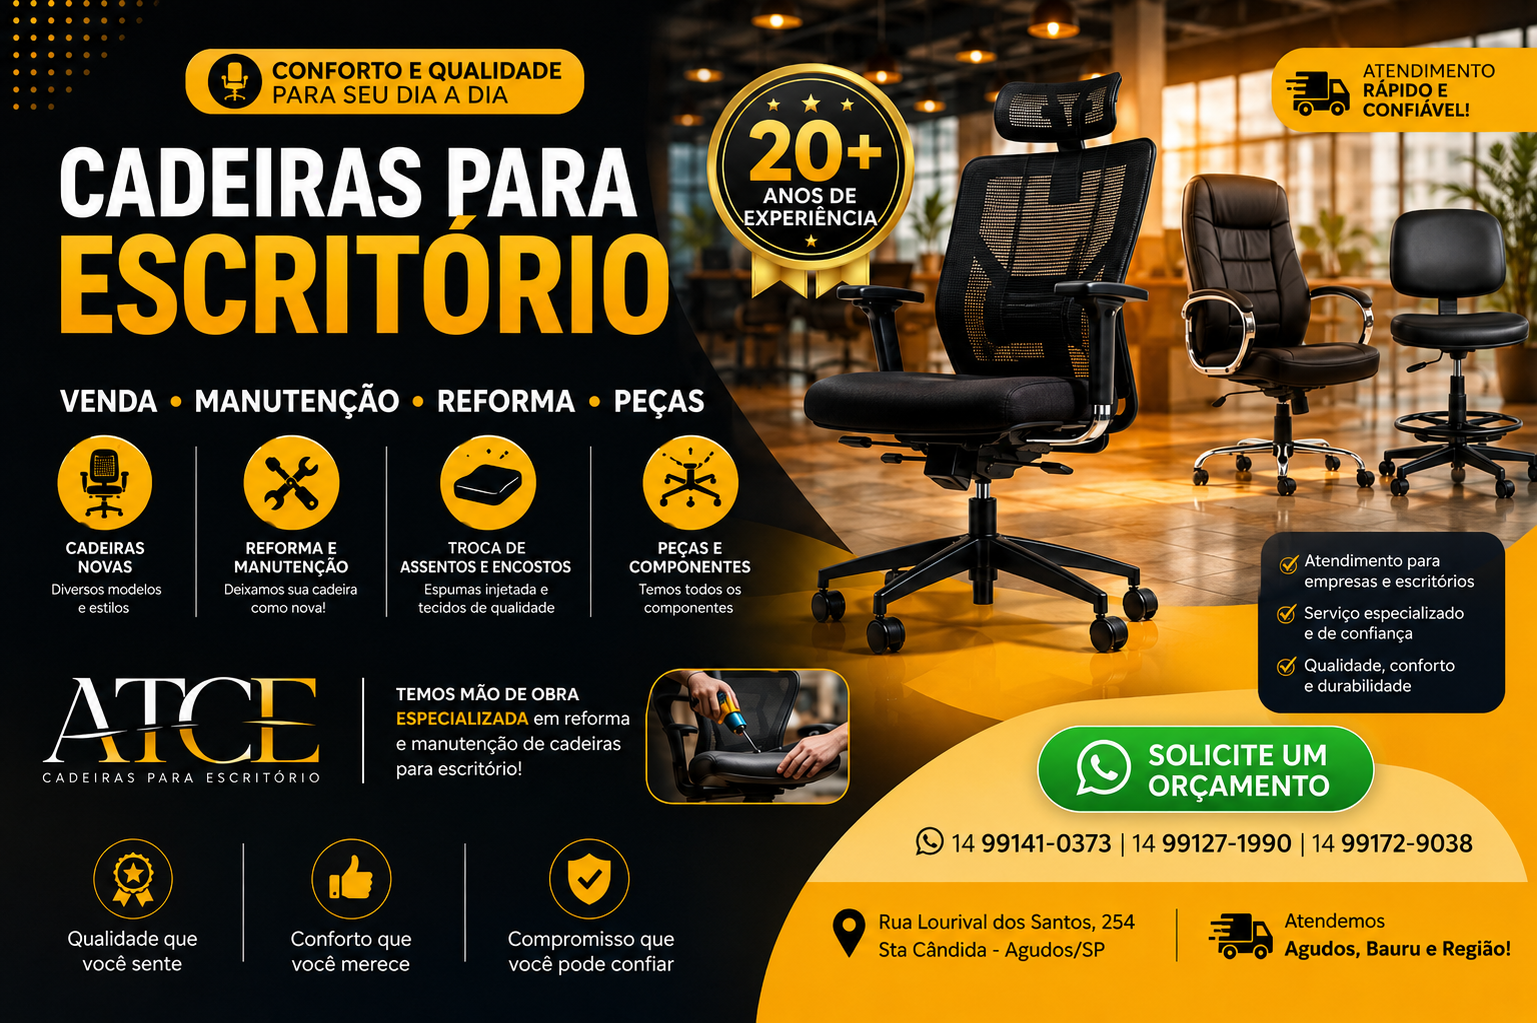
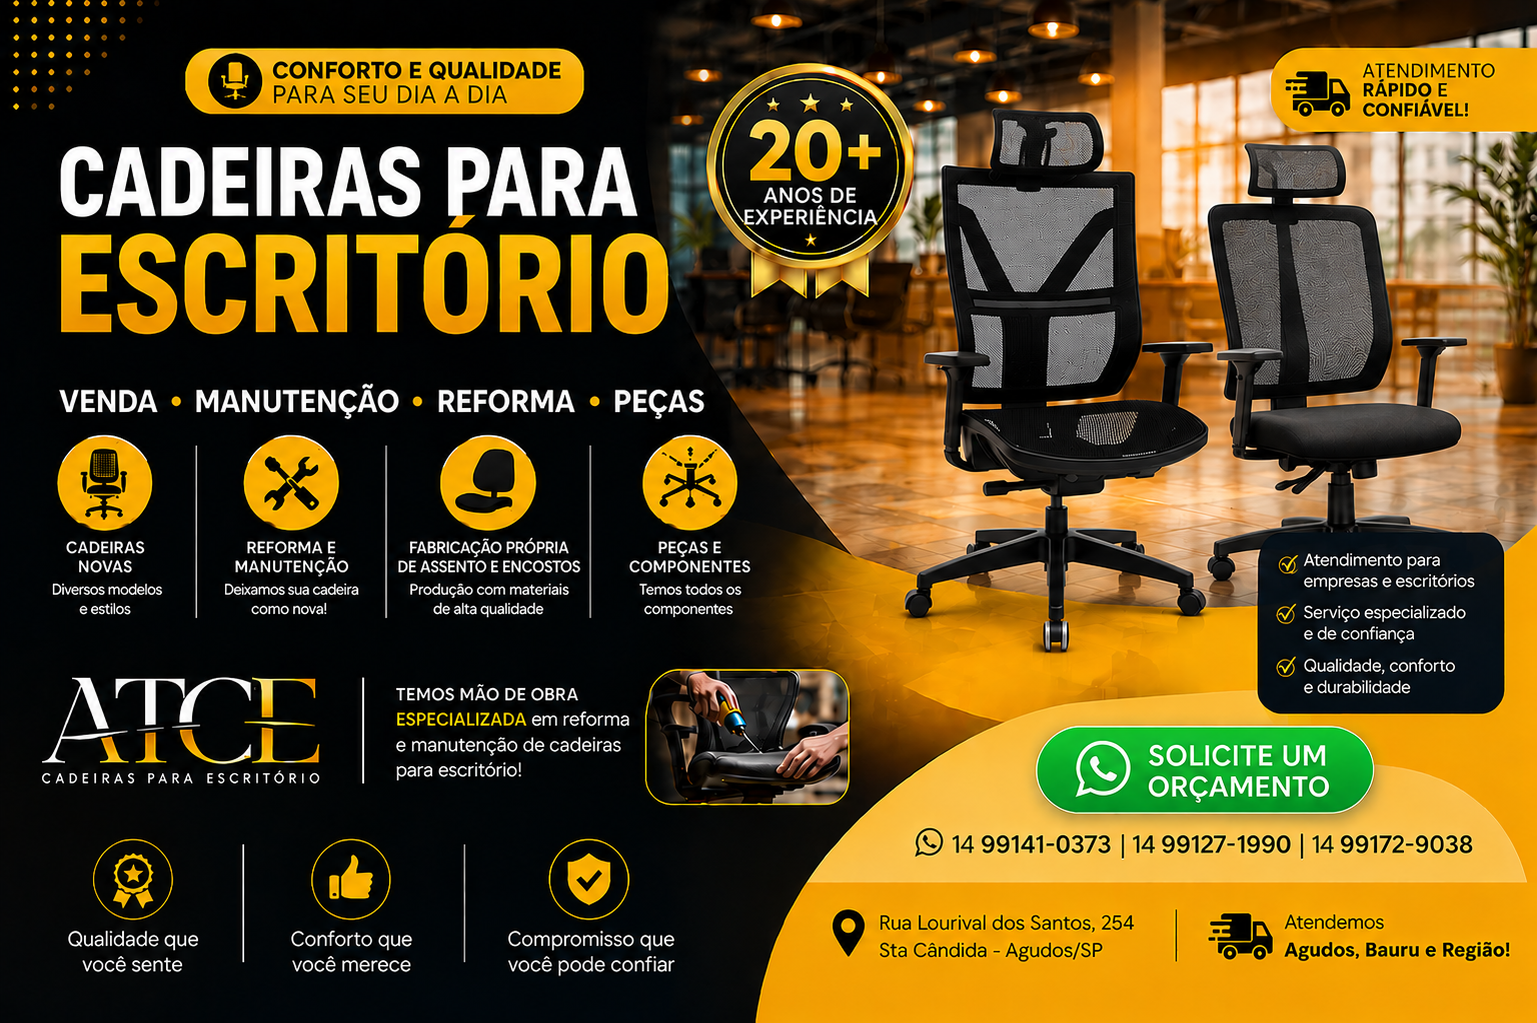
Atualiza flyer e index.html do catálogo ATCE

diff --git a/index.html b/index.html
@@ -170,6 +170,193 @@
     .phones-row a svg { width: 17px; height: 17px; color: var(--gold); }
 
     /* ══════════════════════════════════════
+       FABRICAÇÃO PRÓPRIA
+    ══════════════════════════════════════ */
+    .factory {
+      position: relative;
+      background:
+        radial-gradient(900px 400px at 85% -10%, rgba(245,168,0,.10), transparent 60%),
+        radial-gradient(700px 380px at 0% 110%, rgba(245,168,0,.07), transparent 55%),
+        var(--black);
+      padding: 90px 48px;
+      border-top: 1px solid #222;
+      overflow: hidden;
+    }
+
+    .factory-inner {
+      max-width: 1150px;
+      margin: 0 auto;
+      display: grid;
+      grid-template-columns: 1.05fr 1fr;
+      gap: 56px;
+      align-items: center;
+    }
+
+    .factory-badge {
+      display: inline-flex;
+      align-items: center;
+      gap: 8px;
+      background: rgba(245,168,0,.12);
+      border: 1px solid rgba(245,168,0,.35);
+      color: var(--gold);
+      font-size: .68rem;
+      font-weight: 800;
+      letter-spacing: .15em;
+      text-transform: uppercase;
+      padding: 7px 16px;
+      border-radius: 100px;
+      margin-bottom: 22px;
+    }
+
+    .factory-badge svg { width: 15px; height: 15px; }
+
+    .factory h2 {
+      font-size: clamp(1.9rem, 3.6vw, 3rem);
+      font-weight: 900;
+      text-transform: uppercase;
+      line-height: 1.08;
+      margin-bottom: 20px;
+    }
+
+    .factory h2 em { font-style: normal; color: var(--gold); }
+
+    .factory-lead {
+      color: #b0b0b0;
+      font-size: 1rem;
+      line-height: 1.7;
+      max-width: 520px;
+      margin-bottom: 30px;
+    }
+
+    .factory-features {
+      display: flex;
+      flex-direction: column;
+      gap: 16px;
+      margin-bottom: 34px;
+    }
+
+    .ff-item {
+      display: flex;
+      align-items: flex-start;
+      gap: 14px;
+    }
+
+    .ff-ic {
+      flex-shrink: 0;
+      width: 42px;
+      height: 42px;
+      border-radius: 11px;
+      background: rgba(245,168,0,.12);
+      border: 1px solid rgba(245,168,0,.25);
+      display: flex;
+      align-items: center;
+      justify-content: center;
+    }
+
+    .ff-ic svg { width: 21px; height: 21px; color: var(--gold); }
+
+    .ff-text h4 {
+      font-size: .92rem;
+      font-weight: 800;
+      text-transform: uppercase;
+      letter-spacing: .03em;
+      margin-bottom: 3px;
+    }
+
+    .ff-text p { font-size: .82rem; color: #8c8c8c; line-height: 1.55; }
+
+    .factory-cta {
+      display: inline-flex;
+      align-items: center;
+      gap: 10px;
+      background: var(--gold);
+      color: var(--black);
+      font-family: 'Montserrat', sans-serif;
+      font-size: .9rem;
+      font-weight: 800;
+      text-transform: uppercase;
+      letter-spacing: .05em;
+      padding: 15px 30px;
+      border-radius: 8px;
+      text-decoration: none;
+      transition: transform .2s, box-shadow .2s;
+    }
+
+    .factory-cta:hover {
+      transform: translateY(-2px);
+      box-shadow: 0 8px 26px rgba(245,168,0,.35);
+    }
+
+    .factory-cta svg { width: 19px; height: 19px; }
+
+    /* Vitrine visual à direita */
+    .factory-visual {
+      position: relative;
+      display: grid;
+      grid-template-columns: 1fr 1fr;
+      gap: 18px;
+    }
+
+    .fv-card {
+      position: relative;
+      border-radius: 18px;
+      padding: 30px 24px;
+      background: linear-gradient(160deg, #1c1c1c 0%, #141414 100%);
+      border: 1px solid #262626;
+      overflow: hidden;
+      transition: transform .25s, border-color .25s;
+    }
+
+    .fv-card:hover { transform: translateY(-6px); border-color: rgba(245,168,0,.4); }
+
+    .fv-card::after {
+      content: '';
+      position: absolute;
+      top: 0; right: 0;
+      width: 90px; height: 90px;
+      background: radial-gradient(circle at top right, rgba(245,168,0,.18), transparent 70%);
+    }
+
+    .fv-card.tall { grid-row: span 2; display: flex; flex-direction: column; justify-content: space-between; }
+
+    .fv-ic {
+      width: 50px;
+      height: 50px;
+      border-radius: 50%;
+      background: var(--gold);
+      display: flex;
+      align-items: center;
+      justify-content: center;
+      margin-bottom: 18px;
+    }
+
+    .fv-ic svg { width: 26px; height: 26px; color: var(--black); }
+
+    .fv-card h3 { font-size: 1.05rem; font-weight: 900; text-transform: uppercase; margin-bottom: 7px; }
+    .fv-card p  { font-size: .8rem; color: #999; line-height: 1.55; }
+
+    .fv-stat .num {
+      font-size: clamp(2.2rem, 5vw, 3.2rem);
+      font-weight: 900;
+      color: var(--gold);
+      line-height: 1;
+      margin-bottom: 6px;
+    }
+
+    .fv-stat .lbl { font-size: .72rem; color: #888; text-transform: uppercase; letter-spacing: .1em; font-weight: 700; }
+
+    @media (max-width: 860px) {
+      .factory { padding: 60px 24px; }
+      .factory-inner { grid-template-columns: 1fr; gap: 40px; }
+      .factory-lead { max-width: none; }
+    }
+
+    @media (max-width: 460px) {
+      .factory-visual { grid-template-columns: 1fr; }
+      .fv-card.tall { grid-row: auto; }
+    }
+
+    /* ══════════════════════════════════════
        CATÁLOGO — ABAS
     ══════════════════════════════════════ */
     .catalog {
@@ -591,6 +778,82 @@
       <svg viewBox="0 0 24 24" fill="none" stroke="currentColor" stroke-width="2" stroke-linecap="round" stroke-linejoin="round"><path d="M22 16.92v3a2 2 0 0 1-2.18 2 19.79 19.79 0 0 1-8.63-3.07A19.5 19.5 0 0 1 4.69 12a19.79 19.79 0 0 1-3.07-8.67A2 2 0 0 1 3.6 1.29h3a2 2 0 0 1 2 1.72 12.84 12.84 0 0 0 .7 2.81 2 2 0 0 1-.45 2.11L7.91 9a16 16 0 0 0 6 6l.92-.92a2 2 0 0 1 2.11-.45 12.84 12.84 0 0 0 2.81.7A2 2 0 0 1 22 16.92z"/></svg>
       14 99172-9038
     </a>
+  </div>
+</section>
+
+<!-- ══ FABRICAÇÃO PRÓPRIA ═════════════════════════════════ -->
+<section class="factory">
+  <div class="factory-inner">
+
+    <!-- Texto -->
+    <div class="factory-content">
+      <span class="factory-badge">
+        <svg viewBox="0 0 24 24" fill="none" stroke="currentColor" stroke-width="2" stroke-linecap="round" stroke-linejoin="round"><path d="M2 20h20M4 20V8l5 3V8l5 3V8l5 3v9"/></svg>
+        Fabricação própria
+      </span>
+
+      <h2>Assentos e encostos <em>feitos por nós</em></h2>
+
+      <p class="factory-lead">
+        Aqui o trabalho não para na revenda: <strong style="color:#e0e0e0">nós produzimos nossos próprios assentos e encostos</strong>.
+        Isso significa controle total da qualidade, espuma na densidade certa e acabamento que você sente ao sentar — do começo ao fim, no nosso padrão.
+      </p>
+
+      <div class="factory-features">
+        <div class="ff-item">
+          <div class="ff-ic">
+            <svg viewBox="0 0 24 24" fill="none" stroke="currentColor" stroke-width="2" stroke-linecap="round" stroke-linejoin="round"><path d="M20 9V7a2 2 0 0 0-2-2H6a2 2 0 0 0-2 2v2M4 14v3a2 2 0 0 0 2 2h12a2 2 0 0 0 2-2v-3M2 9h20a0 0 0 0 1 0 0v3a2 2 0 0 1-2 2H4a2 2 0 0 1-2-2V9z"/></svg>
+          </div>
+          <div class="ff-text">
+            <h4>Assento e encosto</h4>
+            <p>Assento e encosto anatômico injetado, com espuma de alta densidade que apoia a coluna do jeito certo, com a firmeza e o caimento na medida.</p>
+          </div>
+        </div>
+
+        <div class="ff-item">
+          <div class="ff-ic">
+            <svg viewBox="0 0 24 24" fill="none" stroke="currentColor" stroke-width="2" stroke-linecap="round" stroke-linejoin="round"><path d="M12 2l2.4 7.4H22l-6 4.6 2.3 7.4L12 17l-6.3 4.4L8 14 2 9.4h7.6L12 2z"/></svg>
+          </div>
+          <div class="ff-text">
+            <h4>Qualidade de ponta a ponta</h4>
+            <p>Produção própria = sem intermediários no acabamento. O padrão é definido por nós.</p>
+          </div>
+        </div>
+      </div>
+
+      <a href="https://wa.me/5514991410373?text=Ol%C3%A1!%20Quero%20saber%20mais%20sobre%20os%20assentos%20e%20encostos%20de%20fabrica%C3%A7%C3%A3o%20pr%C3%B3pria." class="factory-cta" target="_blank">
+        <svg viewBox="0 0 24 24" fill="currentColor"><path d="M17.472 14.382c-.297-.149-1.758-.867-2.03-.967-.273-.099-.471-.148-.67.15-.197.297-.767.966-.94 1.164-.173.199-.347.223-.644.075-.297-.15-1.255-.463-2.39-1.475-.883-.788-1.48-1.761-1.653-2.059-.173-.297-.018-.458.13-.606.134-.133.298-.347.446-.52.149-.174.198-.298.298-.497.099-.198.05-.371-.025-.52-.075-.149-.669-1.612-.916-2.207-.242-.579-.487-.5-.669-.51-.173-.008-.371-.01-.57-.01-.198 0-.52.074-.792.372-.272.297-1.04 1.016-1.04 2.479 0 1.462 1.065 2.875 1.213 3.074.149.198 2.096 3.2 5.077 4.487.709.306 1.262.489 1.694.625.712.227 1.36.195 1.871.118.571-.085 1.758-.719 2.006-1.413.248-.694.248-1.289.173-1.413-.074-.124-.272-.198-.57-.347z"/><path d="M12 0C5.373 0 0 5.373 0 12c0 2.113.552 4.094 1.512 5.818L.057 23.882l6.22-1.63A11.945 11.945 0 0 0 12 24c6.627 0 12-5.373 12-12S18.627 0 12 0z"/></svg>
+        Fale sobre fabricação própria
+      </a>
+    </div>
+
+    <!-- Vitrine visual -->
+    <div class="factory-visual">
+      <div class="fv-card tall">
+        <div>
+          <div class="fv-ic">
+            <svg viewBox="0 0 24 24" fill="none" stroke="currentColor" stroke-width="2.2" stroke-linecap="round" stroke-linejoin="round"><path d="M14.7 6.3a1 1 0 0 0 0 1.4l1.6 1.6a1 1 0 0 0 1.4 0l3.77-3.77a6 6 0 0 1-7.94 7.94l-6.91 6.91a2.12 2.12 0 0 1-3-3l6.91-6.91a6 6 0 0 1 7.94-7.94l-3.76 3.76z"/></svg>
+          </div>
+          <h3>Produção própria</h3>
+          <p>Nossa oficina transforma matéria-prima em assentos e encostos prontos para uso — sem terceirizar o que importa.</p>
+        </div>
+        <div class="fv-stat" style="margin-top:24px;">
+          <div class="num">100%</div>
+          <div class="lbl">Feito na ATCE</div>
+        </div>
+      </div>
+
+      <div class="fv-card fv-stat">
+        <div class="num">+20</div>
+        <div class="lbl">Anos de experiência</div>
+      </div>
+
+      <div class="fv-card fv-stat">
+        <div class="num">2×</div>
+        <div class="lbl">Mais durabilidade</div>
+      </div>
+    </div>
+
   </div>
 </section>
 
